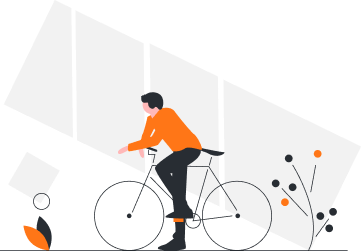
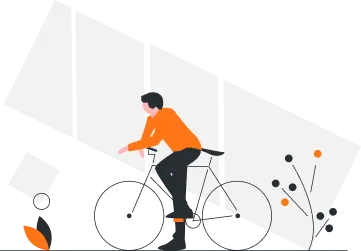
fix: performance

diff --git a/src/styles/fonts.css b/src/styles/fonts.css
@@ -1,5 +1,21 @@
 @import url('https://fonts.googleapis.com/css2?family=Outfit:wght@100..900&display=swap');
 
+@font-face {
+    font-family: "Outfit";
+    src: url("./../assets/fonts/Outfit-Regular.ttf");
+    font-weight: 400;
+    font-style: normal;
+    font-display: swap;
+}
+
+@font-face {
+    font-family: "Outfit";
+    src: url("./../assets/fonts/Outfit-Bold.ttf");
+    font-weight: 700;
+    font-style: normal;
+    font-display: swap;
+}
+
 :root {
     --font-outfit: "Outfit", sans-serif;
 }

diff --git a/index.html b/index.html
@@ -3,6 +3,13 @@
   <head>
     <meta charset="UTF-8" />
     <link rel="icon" type="image/svg+xml" href="/favicon.svg" />
+    <link
+      rel="preload"
+      as="image"
+      href="/src/assets/hero_biking.webp"
+      type="image/webp"
+      fetchpriority="high"
+    />
     <meta name="viewport" content="width=device-width, initial-scale=1.0" />
     <title>uniwheels</title>
   </head>

diff --git a/src/components/Hero.tsx b/src/components/Hero.tsx
@@ -20,8 +20,11 @@ export default function Hero() {
                 className="heroImg"
                 src={heroLogo}
                 alt="People cycling together"
-                width="386px"
-                height="281px"
+                width={361}
+                height={251}
+                loading="eager"
+                fetchPriority="high"
+                decoding="async"
             />
         </section>
     );

diff --git a/src/components/RepeatCTA.tsx b/src/components/RepeatCTA.tsx
@@ -1,5 +1,5 @@
 import Button from "./button/Button";
-import iphoneMockup from "./../assets/iphone-mockup.png";
+import iphoneMockup from "./../assets/iphone-mockup.webp";
 import "./RepeatCTA.css";
 
 const RepeatCTA = () => {
@@ -11,6 +11,8 @@ const RepeatCTA = () => {
         className="repeat-cta__image"
         width={516}
         height={289}
+        loading="lazy"
+        decoding="async"
       />
       <div className="repeat-cta__content">
         <h2 id="repeat-cta-heading">Ready to Ride Together?</h2>